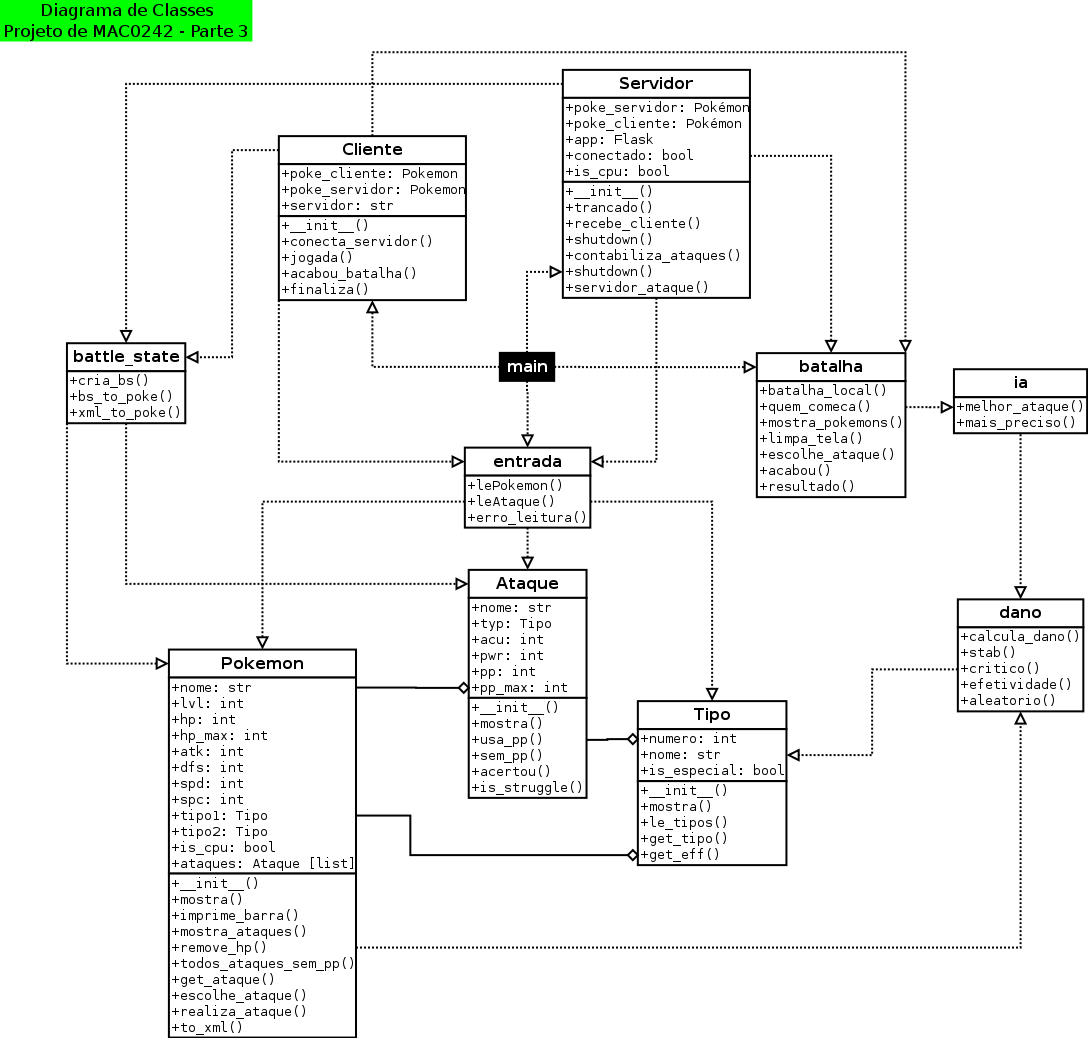
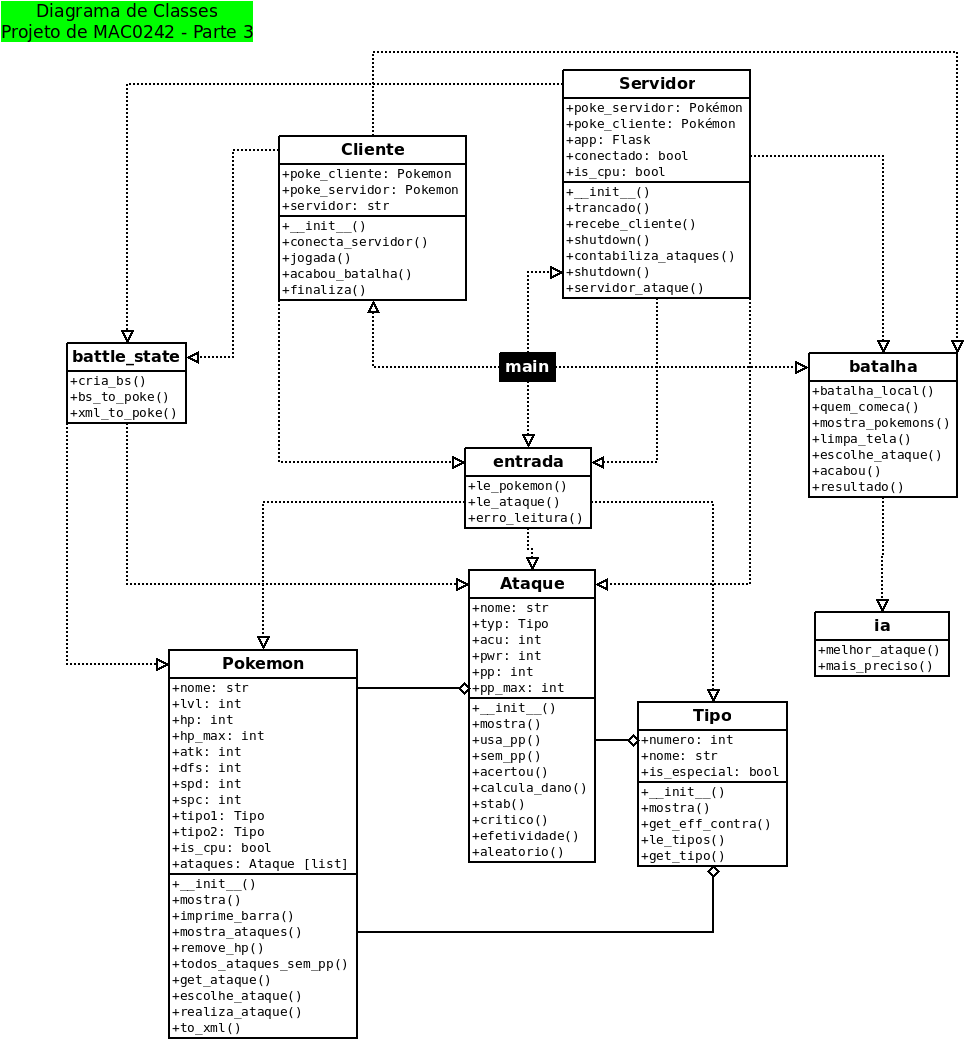
UML finalizado e toques finais em "exeggcute"

diff --git a/doc/Relatorio3.md b/doc/Relatorio3.md
@@ -9,47 +9,50 @@ MAC0242 - Relatório (Parte 3)
 
 ### Introdução
 
-  A terceira e última parte deste projeto buscou criar uma inteligência artificial para os Pokémons. A forma de implementação era livre e deveria ser usada tanto em batalhas locais quanto online.
+  A terceira e última parte deste tão aguardado (nem por todos) projeto buscou criar uma inteligência artificial que simulasse satisfatoriamente a ação humana numa batalha entre Pokémons. A forma de implementação seria livre e deveria ser montada de modo a funcionar tanto em batalhas locais quanto online.
 
 ### Visão geral
 
-  Cita-se aqui os arquivos novos ou que sofreram grandes mudanças em relação à Etapa 2.
+  Citaremos aqui um resumo geral dos arquivos do projeto, bem como as principais modificações ocorridas na etapa 3.
 
 ###### doc/
 
-  - ***Etapa3.pdf***: O enunciado da terceira etapa.
-  - ***requirements.txt***: Não foi usada nenhuma dependência nova em relação à fase anterior.
-  - ***uml/Classes3.dia***: Diagrama de classes desta fase do projeto. Feito no programa Dia. É importante notar que, embora alguns módulos (*batalha* e *entrada*) contenham funções sem classes, eles em si foram, por clareza, considerados como classes não instanciáveis.
-  - ***uml/Classes3.png***: Versão em imagem do anterior.
+  - ***Etapa{1,2,3}.pdf***: Enunciados das etapas.
+  - ***requirements.txt***: Dependências das quais o programa necessita. Não foi usada nenhuma nova em relação à fase anterior.
+  - ***uml/Classes{1,2,3}.dia***: Diagramas de classes das fases do projeto. Feitas no programa Dia. É importante notar que, embora alguns módulos (*batalha* e *entrada*, por exemplo) contenham funções sem classes, eles em si foram, por clareza, considerados como classes não instanciáveis.
+  - ***uml/Classes{1,2,3}.png***: Versão em imagem dos diagramas.
 
 ###### src/
 
-  - ***main.py***: Módulo principal onde o programa é iniciado. Foram adicionados argumentos por linha de comando para tratar a inteligência artificial.
-  - ***pokemon.py***: Sofreu uma boa refatoração, contendo agora apenas a classe Pokémon. As funções de escolher e realizar um ataque foram movidas do *batalha.py* para este módulo com o objetivo de reforçar a Orientação a Objetos.
-  - ***batalha.py***: Por si só, cuida do loop de batalhas *locais*. Sofreu uma boa refatoração.
+  - ***main.py***: Módulo principal onde o programa é iniciado. Recebe argumentos por linha de comando que possibilitam escolher entre jogo local, cliente ou servidor, bem como entre jogadores humanos e CPU.
+  - ***pokemon.py***: Sofreu uma boa refatoração, contendo agora apenas a classe Pokémon. As funções de escolher e realizar um ataque foram movidas do *batalha.py* para este módulo com o objetivo de reforçar a POO.
   - ***ataque.py***: Contém a classe Ataque (que pertencia antes a *pokemon.py*) e as funções anteriormente do módulo *batalha.py* relacionadas ao cálculo de dano.
-  - ***tipo.py***: Possui a classe Tipo e a tabela de efetividade. Estava antes no *pokemon.py*.
+  - ***tipo.py***: Possui a classe Tipo e a tabela de efetividades.
+  - ***batalha.py***: Cuida do desenrolar da batalha, decidindo quem começa, imprimindo resultados na tela, verificando se o jogo terminou, etc.
   - ***cliente.py*** e ***servidor.py***: Juntos, eram o antigo *multiplayer.py* da Etapa 2. Administram, respectivamente, o lado *cliente* e *servidor* numa batalha online.
-  - ***battle_state.py***: Contém as funções que criam e traduzem um objeto battle_state (XML). Na Etapa 2, faziam parte do *multiplayer.py*.
-  - ***ia.py***: É o módulo mais inédito desta Etapa do projeto. Trata da inteligência artificial através de funções que determinam o melhor ataque a ser usado.
+  - ***battle_state.py***: Contém as funções que criam e traduzem um objeto battle_state (XML).
+  - ***ia.py***: Atração principal desta etapa do projeto. Trata da inteligência artificial (IA) do CPU, determinando de forma inteligente o melhor ataque a ser usado. Para mais detalhes, ver a seção logo abaixo.
 
 ###### test/
 
-  - ???
+  - <to be continued> ???
 
-### Simulação
+### Inteligência Artificial
 
-  Explicaremos aqui a lógica utilizada na inteligência artificial, já que as batalhas locais e online são idênticas às Etapas anteriores. A prioridade de ações da IA é a seguinte:
+  Explicaremos aqui a lógica utilizada na inteligência artificial, já que as batalhas locais e online entre seres humanos são idênticas às etapas anteriores. Para as ações da IA são levados em conta os seguintes detalhes:
 
-  1. Se todos os golpes estiverem sem PP, a única opção é Struggle.
+  - O dano total *esperado* será o dano base do ataque (*PWR*), aplicado os modificadores de efetividade e STAB.
+  - Serão desconsiderados fatores randômicos, ou seja, a chance de crítico, e o modificador aleatório será estipulado como o mínimo possível (0.85)
 
-  2. Quando o usuário estiver com menos de 1/5 do HP total, escolhe-se o golpe com maior potencial de dano, desconsiderando a acurácia (afinal, a chance de perder está próxima!). Fatores aleatórios como chance de crítico são desconsiderados, e o número aleatório usado na fórmula de dano será o mais baixo (0.85).
+  Tendo isso em mente, a escolha do melhor ataque segue a seguinte ordem de prioridade:
 
-  3. Se **2** não ocorrer, então calcula-se o dano que cada golpe do usuário causará no defensor. A acurácia entra nas contas para determinar o "custo-benefício" dos golpes. Novamente, fatores aleatórios são ignorados. Depois disso, usa-se o melhor ataque analisado.
+  **1.** Se todos os golpes estiverem sem PP, a única opção é Struggle.
 
-  4. Se o "custo-benefício" de mais de um ataque em **3** tem chance de nocautear o oponente, então escolhe-se o que possui maior acurácia. O critério de desempate, se necessário, é o golpe com maior PP.
+  **2.** Quando o usuário estiver com menos de 1/5 do HP total, escolhe-se o golpe com maior potencial de dano, desconsiderando a acurácia (afinal, a chance de perder no próximo turno é grande!).
 
-  Durante a partida local/online, aparecerá *(CPU)* quando um Pokémon for controlado pela IA. Infelizmente, em batalhas pela Internet, não é possível saber se o oponente é humano ou máquina, pois o *battle_state* não possui um campo para tratar isso.
+  **3.** Se ***2*** não ocorrer, então calcula-se o dano que cada golpe do usuário causará no defensor. O produto do dano pela acurácia de cada ataque resultará no "custo-benefício" do golpe. Assim, escolher-se-á o que possuir maior valor.
+
+  **4.** Se o "custo-benefício" de mais de um ataque em **3** tem chance de nocautear o oponente, então será usado o que possuir maior acurácia. O critério de desempate, se necessário, é o golpe com maior PP.
 
 ### Uso
 
@@ -57,7 +60,7 @@ MAC0242 - Relatório (Parte 3)
 
   **$ ./pyenv**
 
-  - Este script automaticamente cria um virtualenv na pasta principal e instala as dependências citadas em *doc/requirements.txt*. Portanto, os diretórios *bin*, *include* e *lib* são resultado desse proceso.
+  - Este script automaticamente cria um virtualenv na pasta principal e instala as dependências citadas em *doc/requirements.txt*. Portanto, os diretórios *bin*, *include* e *lib* são resultado deste processo.
 
   - O programa pode ser executado de diferentes formas dependendo do argumento passado ao script ***exeggcute***. Este também recebe nomes de Pokémon como argumento ou simplesmente sorteia-os aleatoriamente, caso não seja informado nenhum. Para melhores detalhes de como executar o script, faça:
 
